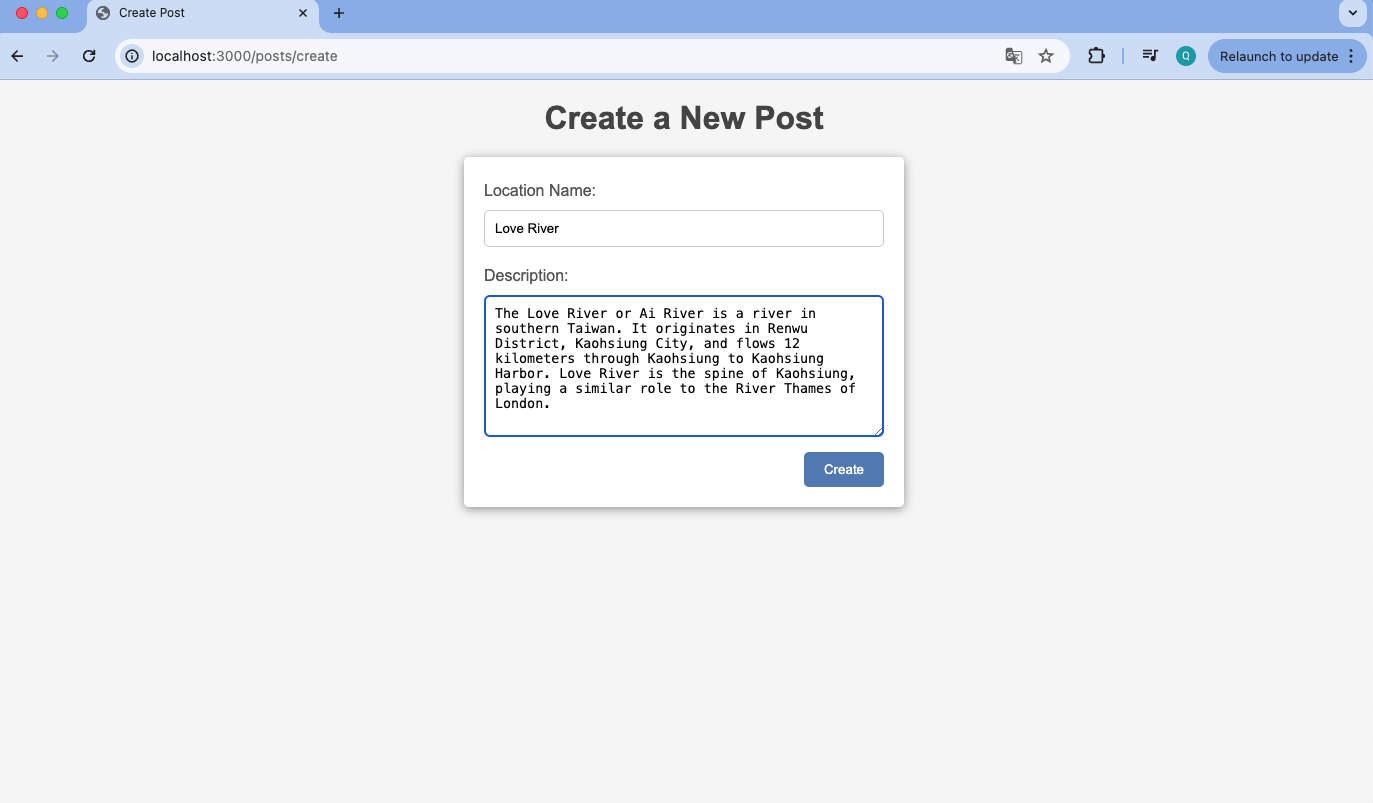
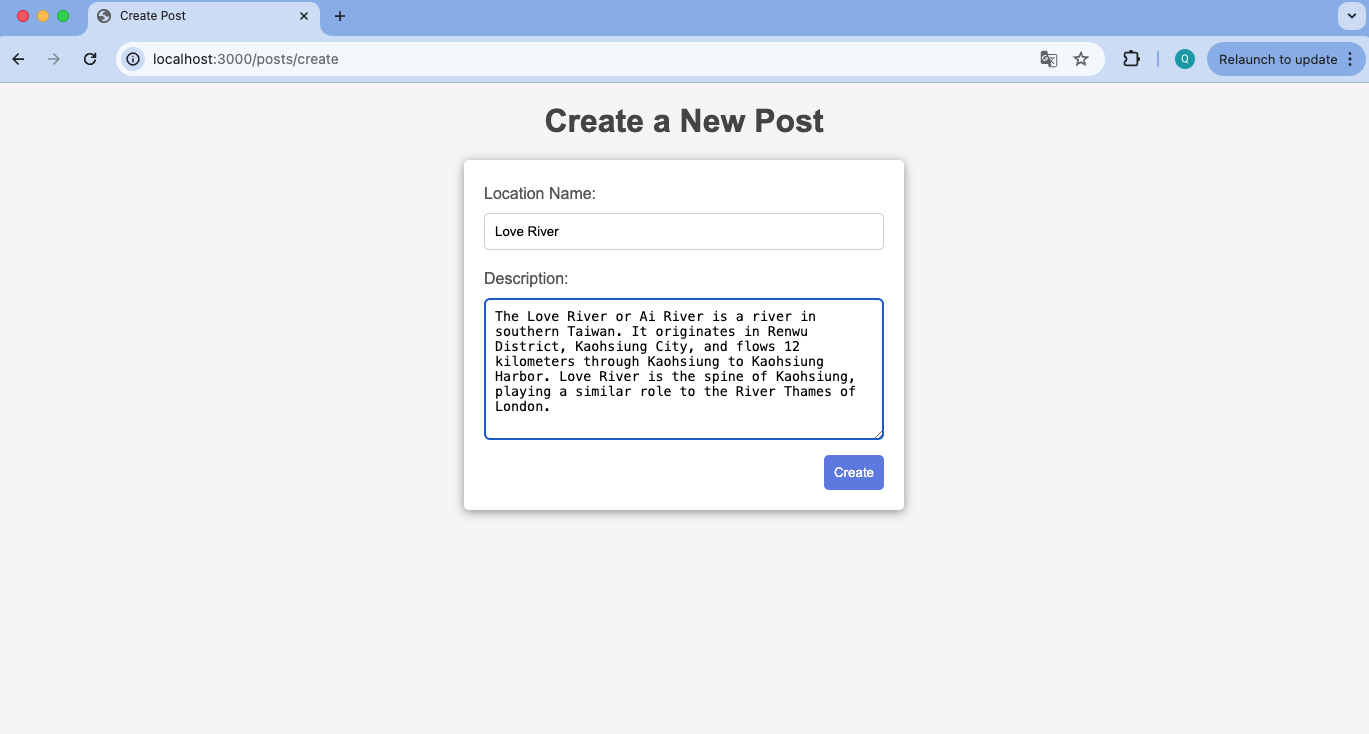
Add profile page with Oracle DB integration

Changed region(s): [[0.3375, 0.2098, 0.6749, 0.7193], [0.0, 0.0, 1.0, 0.1798]]

diff --git a/database/oracleDB.js b/database/oracleDB.js
@@ -1,0 +1,77 @@
+const oracledb = require('oracledb');
+const { getOracleDBConnection } = require('../config/oracleConfig');
+
+runQuery = async (sql, binds = [], options = {}) => {
+    let connection
+    try {
+        connection = await getOracleDBConnection()
+        const result = await connection.execute(sql, binds, options)
+        await connection.commit()
+        return result
+    } catch (error){
+        console.error("Error executing query:", error)
+        throw error
+    } finally {
+        if (connection){
+            try {
+                await connection.close();
+            } catch (error) {
+                console.error("Error closing OracleDB connection:", error)
+            }
+        }
+    }
+}
+
+insertUserToOracleDB = async () => {
+    try {
+        await runQuery(`
+            BEGIN 
+                EXECUTE IMMEDIATE 'DROP TABLE app_user'; 
+            EXCEPTION 
+                WHEN others THEN
+                    IF sqlcode <> -942 THEN
+                        RAISE; 
+                    END IF; 
+            END;
+            `)
+
+        await runQuery(`
+            CREATE TABLE app_user (
+                ID number generated always as identity,
+                NAME varchar2(50),
+                EMAIL varchar2(50),
+                BIO varchar2(100),
+                CREATION_TS timestamp with time zone default current_timestamp,
+                primary key (ID)
+            )
+            `)
+
+        const result = await runQuery(
+            `INSERT INTO app_user (name, email, bio) VALUES (:name, :email, :bio)`,
+            {
+                name: "Jenny",
+                email: "jenny@example.com",
+                bio: "Software developer with a passion for continuous skill development."
+            },
+            { autoCommit: true }
+        )
+        console.log(result.rowsAffected, "Rows Inserted");
+    } catch (error){
+        console.error("Error inserting user data:", error)
+    }
+}
+
+getUserDetail = async () => {
+    try {
+        const result = await runQuery(
+            `SELECT name, email, bio FROM app_user WHERE id=1`,
+            [],
+            { outFormat: oracledb.OUT_FORMAT_OBJECT }
+        )
+        return result.rows[0]
+    } catch (error) {
+        console.error("Error retrieving user data:", error)
+    }
+}
+
+module.exports = { insertUserToOracleDB, getUserDetail }

diff --git a/server.js b/server.js
@@ -1,14 +1,7 @@
 require('dotenv').config()
 const express = require('express')
 const app = express();
-const mongoose = require('mongoose')
-
-const MONGO_URI = process.env.MONGO_URI
 const APP_PORT = process.env.APP_PORT || 3000
-
-mongoose.connect(MONGO_URI)
-    .then(() => console.log(`Connecting to MongoDB ${MONGO_URI}`))
-    .catch((error) => console.error('MongoDB connection error:', error));
 
 app.use(express.static("public"))
 app.use(express.urlencoded({ extended: true}))
@@ -22,6 +15,9 @@ app.get('/', (req, res) => {
 
 const postRouter = require('./routes/posts')
 app.use('/posts', postRouter)
+
+const profileRouter = require('./routes/profile')
+app.use('/profile', profileRouter)
 
 app.listen(APP_PORT, function(){
     console.log(`app listening on port ${APP_PORT}`);

diff --git a/routes/profile.js b/routes/profile.js
@@ -1,0 +1,24 @@
+const express = require("express")
+const router = express.Router()
+const { getUserDetail, insertUserToOracleDB } = require('../database/oracleDB')
+
+router.get('/', async (req, res) => {
+    try {
+        await insertUserToOracleDB()
+        const userData = await getUserDetail()
+        if (userData) {
+            const user = {
+                name: userData.NAME,
+                email: userData.EMAIL,
+                bio: userData.BIO
+            }
+            res.render("profile/index", { user })
+        }else{
+            res.send("User not found")
+        }
+    } catch (error) {
+        res.status(500).send("Error retrieving user data")
+    }
+})
+
+module.exports = router

diff --git a/public/styles.css b/public/styles.css
@@ -23,7 +23,6 @@ button {
     padding: 10px;
     border: none;
     border-radius: 5px;
-    min-width: 80px;
     cursor: pointer;
 }
 
@@ -31,10 +30,28 @@ button:hover {
     background-color: #577de4;
 }
 
-.post-list {
+.profile-btn {
+    background-color: #f5f5f5;
+    color: rgb(0, 0, 0);
+    border: none;
+    margin-left: 10px;
+}
+
+.profile-btn:hover {
+    background-color: #fff;
+}
+
+.post-list, .profile {
     display: flex;
     flex-direction: column;
     align-items: center;
+}
+
+.profile {
+    margin-right: 90px;
+}
+
+.post-list {
     row-gap: 20px;
 }
 

diff --git a/config/oracleConfig.js b/config/oracleConfig.js
@@ -1,0 +1,20 @@
+const oracledb = require('oracledb')
+
+const dbConfig = {
+    user: process.env.ORACLE_USER,
+    password: process.env.ORACLE_PASSWORD,
+    connectString: process.env.ORACLE_URI
+}
+
+getOracleDBConnection = async () => {
+  try {
+    const connection = await oracledb.getConnection(dbConfig)
+    console.log(`Connected to OracleDB ${dbConfig.connectString}`)
+    return connection
+  } catch (error) {
+    console.error("Error connecting to OracleDB:", error)
+    throw error
+  }
+}
+
+module.exports = { getOracleDBConnection }

diff --git a/config/mongoConfig.js b/config/mongoConfig.js
@@ -1,0 +1,14 @@
+const mongoose = require('mongoose')
+const MONGO_URI = process.env.MONGO_URI
+
+const connectMongoDB = async () => {
+  try {
+    await mongoose.connect(MONGO_URI)
+    console.log(`Connected to MongoDB ${MONGO_URI}`)
+  } catch (error) {
+    console.error("Error connecting to MongoDB:", error)
+    process.exit(1)
+  }
+}
+
+module.exports = { connectMongoDB };

diff --git a/routes/posts.js b/routes/posts.js
@@ -1,6 +1,9 @@
 const express = require("express")
 const router = express.Router()
 const Post = require('../models/post')
+const { connectMongoDB } = require('../config/mongoConfig');
+
+connectMongoDB()
 
 router.get("/", async (req, res) => {
     try {

diff --git a/README.md b/README.md
@@ -1,6 +1,6 @@
 # POST App
 
-A scalable full-stack web application built with Node.js, Express, and MongoDB, featuring RESTful API endpoints, dynamic EJS views, and environment variable support. 
+A scalable full-stack web application built with Node.js, Express, MongoDB, and Oracle Database, featuring RESTful API endpoints, dynamic EJS views, and environment variable support. 
 
 This project includes a testing suite configured with Mocha, Chai, Sinon, Supertest, and Cheerio for comprehensive testing of backend functionality, API endpoints, and HTML content parsing.
 
@@ -8,12 +8,14 @@ This project includes a testing suite configured with Mocha, Chai, Sinon, Supert
 
 1. Node.js: JavaScript runtime for server-side programming.
 2. Express: Web framework for building RESTful APIs.
-3. MongoDB: NoSQL database for data storage.
-4. Mongoose: ODM for MongoDB to model application data.
-5. EJS: Template engine for generating dynamic HTML.
-6. Dotenv: Manage environment variables.
-7. Docker: Deployment of applications within lightweight containers.
-8. Docker Compose: Defining and managing multi-container applications
+3. MongoDB: NoSQL database for store post data.
+4. Oracle Database: Relational database to store user profile data.
+5. Mongoose: ODM for MongoDB to model application data.
+6. oracledb: Node.js module to interact with Oracle Database.
+7. EJS: Template engine for generating dynamic HTML.
+8. Dotenv: Manage environment variables.
+9. Docker: Deployment of applications within lightweight containers.
+10. Docker Compose: Defining and managing multi-container applications.
 
 ## Testing Tools
 
@@ -32,6 +34,10 @@ This project includes a testing suite configured with Mocha, Chai, Sinon, Supert
 2. Create a post
 
 ![Create a post](images/create-a-post.png)
+
+3. View a user profile
+
+![View a profile](images/view-a-profile)
 
 ## Installation
 
@@ -77,7 +83,10 @@ Rebuilds images if there have been any changes in the Dockerfiles or dependencie
 
 Docker: https://www.youtube.com/watch?v=pg19Z8LL06w  
 Express: https://www.youtube.com/watch?v=SccSCuHhOw0  
-Mongoose: https://www.youtube.com/watch?v=fgTGADljAeg  
+MongoDB: https://www.mongodb.com/docs/manual/introduction/  
+Mongoose: https://mongoosejs.com/docs/guide.html   
+Oracle: https://www.oracle.com/database/technologies/appdev/quickstartnodeonprem.html  
+oracledb: https://node-oracledb.readthedocs.io/en/latest/user_guide/introduction.html  
 Mocha: https://mochajs.org/#getting-started   
 Chai: https://www.chaijs.com/api/    
 Sinon: https://sinonjs.org/  
